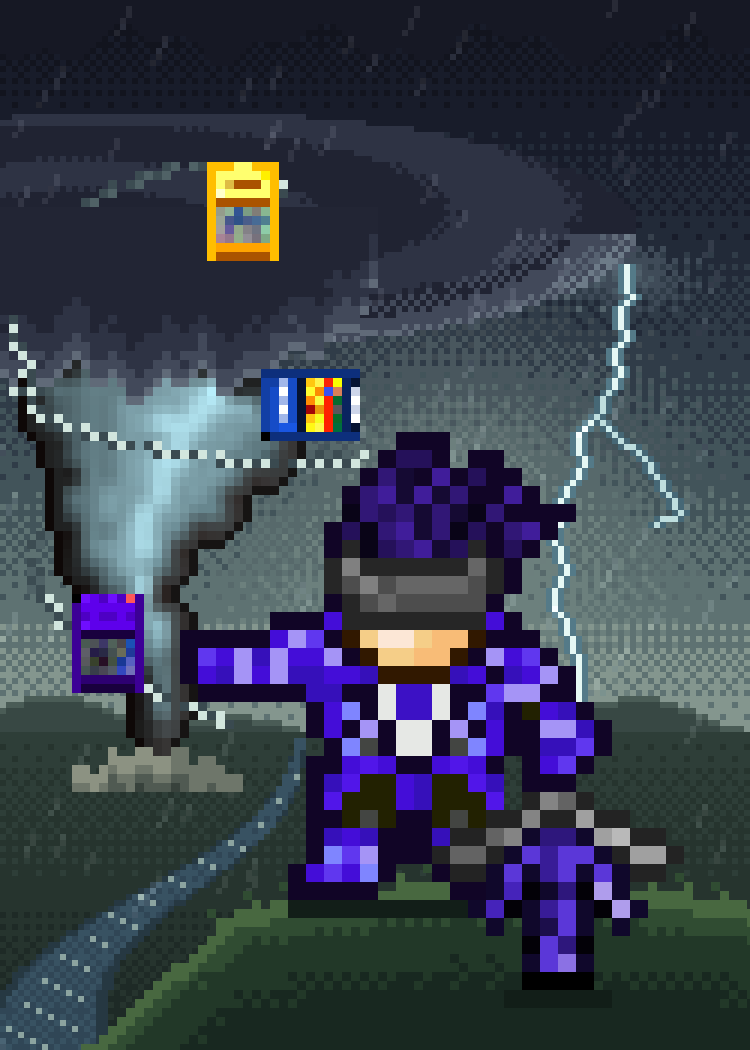
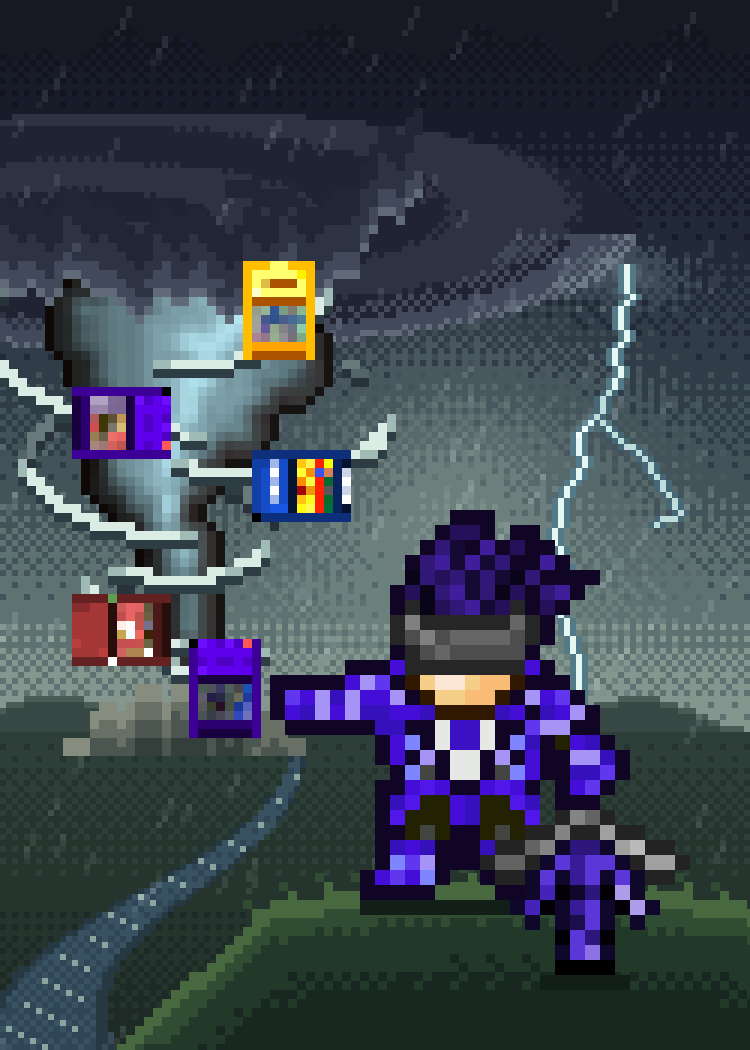
Runde 5: Zwischenstand der Helden-Sleeves (in Arbeit)
Claude-Session: https://claude.ai/code/session_01TEnvTzH2xD44R6Unjv7vDo

diff --git a/data/sleeve-proposals/runde5/generator/s04_stormdraw.py b/data/sleeve-proposals/runde5/generator/s04_stormdraw.py
@@ -12,16 +12,18 @@ Quellen:
   Motive.xcf       Ebene 584 „Ebene #696“ – Spielkarten vom Tisch aus „Card Game Player Inya“
                    (lila Heldenkarten, blaue, goldene und rote Karten).
 Selbst gezeichnet: Sturmhimmel mit heller Wolkenlücke, eingedrehte Mutterwolke, Wolkenkragen am Trichter,
-Regen, ferner Blitz, Ebene mit Fluss (wie im Kartenbild), Hügelkuppe, Windbahn (1 px, hell/dunkel),
-Staubwolke am Rüssel, Bodenschatten.
-Karten: nur drei (lila Heldenkarte = eigene Hand, blaue Karte = Gegner, goldene Karte oben = neu gezogen),
-nur um 90° gedreht, auf der Windbahn aufgereiht.
+Regen, ferner Blitz, Ebene mit Fluss (wie im Kartenbild), Hügelkuppe, gebogene Windstreifen (1 px hell
+mit 1 px dunkler Schattenlinie, spiralig um den Trichter, hinten vom Trichter verdeckt), Staub- und
+Trümmerwolke am Rüssel, Bodenschatten.
+Karten: fünf gleich große Karten (lila Heldenkarten, rote, blaue, goldene), ungedreht bzw. um 90° gedreht,
+im Wechsel vorn rechts/vorn links die Spirale hinauf gestaffelt – unten eben aus der Hand gerissen,
+oben in der Wolke verschwindend.
 
 Skalierung (Tiefenebenen):
   Hintergrund (Himmel, Wolken, Regen, Blitz, Ebene, Fluss)                  – 2×-Raster (125×175)
-  Mittelgrund (Tornado 32×50 → 96×150, Karten 8×11 → 24×33, Windbahn,
+  Mittelgrund (Tornado 32×50 → 96×150, Karten 8×11 → 24×33, Windstreifen,
                Wolkenkragen, Staub, Hügelkuppe)                            – 3×-Raster (84×117)
-  Vordergrund (Champion 28×31 → 168×186, Bodenschatten)                    – 6×-Raster (42×59)
+  Vordergrund (Champion 28×31 → 140×155, Bodenschatten)                    – 5×-Raster (50×70)
 """
 import math, random
 import numpy as np
@@ -196,11 +198,11 @@ for _ in range(150):
         if 0 <= xx < bw and 0 <= yy < bh:
             bg.a[yy, xx] = np.clip(bg.a[yy, xx].astype(int) + 18, 0, 255)
 
-# ================= Mittelgrund 3× (Tornado, Karten, Windbänder, Hügel) ===================
+# ================= Mittelgrund 3× (Tornado, Karten, Windstreifen, Hügel) =================
 K3 = 3
 mw, mh = grid(K3)                      # 84×117
 mid = rgba(mw, mh)
-TX, TY = 2, 37                        # Tornado (Rüsselspitze auf dem Horizont)
+TX, TY = 5, 28                         # Tornado: Scheitel in der Wolke (y 84), Rüssel in der Staubwolke
 th, tw = tornado.shape[:2]
 tm = tornado[..., 3] > 0
 rows = {}
@@ -208,6 +210,7 @@ for r in range(th):
     xs = np.where(tm[r])[0]
     rows[TY + r] = (TX + (xs.min() + xs.max() + 1) / 2, (xs.max() - xs.min() + 1) / 2)
 tip = (TX + 15, TY + th - 1)
+GROUND = 83                            # Aufsetzpunkt der Staubwolke (y 249–252, knapp vor dem Horizont)
 
 
 def funnel(y):
@@ -215,85 +218,113 @@ def funnel(y):
     return rows[y]
 
 
-def spiral(t):
-    """Windbahn: von der Hand des Helden um den Trichter herum hinauf in die Wolke."""
-    y = tip[1] - 6 - t * (th + 14)
+A0, TURNS = 0.75, 2.0
+Y_LO, Y_HI = 73, TY - 5
+
+
+def spiral(t, dr=0.0, da=0.0):
+    """Sog um den Trichter: unten eng, oben weit; sin(a) > 0 = vordere Hälfte."""
+    y = Y_LO + (Y_HI - Y_LO) * t
     c, hw = funnel(y)
-    a = 0.2 + t * math.pi * 2 * 2.1
-    r = hw + 3 + t * 7
-    return c + math.cos(a) * r, y + math.sin(a) * (2.5 + t * 7), math.sin(a)
+    a = A0 + da + t * math.pi * 2 * TURNS
+    r = hw + 4 + t * 6 + dr
+    return c + math.cos(a) * r, y + math.sin(a) * (5 + t * 9), math.sin(a)
 
 
-N = 1400
-path = [spiral(i / N) for i in range(N)]
-wind_f = [(210, 230, 222), (58, 74, 80)]
-wind_b = [(80, 98, 102), (60, 76, 82)]
+def arc(t0, a0, a1, dr=0.0):
+    """Punkte eines kurzen, gebogenen Windstreifens: Winkel a0→a1, steigt dabei spiralig an."""
+    pts = []
+    for i in range(160):
+        a = a0 + (a1 - a0) * i / 159
+        t = t0 + 0.4 * (a - a0) / (math.pi * 2 * TURNS)
+        y = Y_LO + (Y_HI - Y_LO) * t
+        c, hw = funnel(y)
+        r = hw + 4 + t * 6 + dr
+        p_ = (int(round(c + math.cos(a) * r)), int(round(y + math.sin(a) * (5 + t * 9))))
+        if not pts or pts[-1] != p_: pts.append(p_)
+    return pts
 
 
-def draw_wind(front):
-    seen = []
-    for x, y, s_ in path:
-        p = (int(round(x)), int(round(y)))
-        if (s_ >= 0) == front and (not seen or seen[-1] != p):
-            seen.append(p)
-    for j, (x, y) in enumerate(dict.fromkeys(seen)):
-        if j % 9 == 8: continue           # kleine Lücken: Böen
-        setp(mid, x, y, (wind_f if front else wind_b)[j % 2])
+def streak(pts, front=True):
+    """1-px-Streifen im 3×-Raster: helle Linie, darunter eine dunkle Schattenlinie (hell/dunkel),
+    Enden eine Stufe matter – liest sich als Böe, nicht als Punktkette."""
+    hi, mid_, lo = ((218, 236, 228), (160, 186, 182), (46, 60, 68)) if front else \
+                   ((104, 122, 124), (84, 100, 104), (40, 50, 58))
+    S_ = set(pts)
+    for j, (x, y) in enumerate(pts):
+        if (x, y + 1) not in S_: setp(mid, x, y + 1, lo)
+    for j, (x, y) in enumerate(pts):
+        setp(mid, x, y, mid_ if j < 2 or j >= len(pts) - 2 else hi)
 
 
-def card_at(t, key, rot=0, dark=0.0, dx=0, dy=0):
+# vordere Streifen: (Höhe t, Startwinkel, Endwinkel, Radius-Versatz) – abwechselnd rechts und links vorn
+FRONT = [(0.06, 0.35, 1.9, 0), (0.17, 1.5, 2.9, 1), (0.30, 0.25, 1.55, 0), (0.33, 0.9, 1.9, 3),
+         (0.45, 1.45, 2.85, 0), (0.58, 0.2, 1.45, 1), (0.62, 0.8, 1.7, 4), (0.74, 1.5, 2.8, 0),
+         (0.88, 0.25, 1.6, 2)]
+BACK = [(0.12, 3.6, 4.4, 0), (0.25, 5.2, 5.9, 0), (0.40, 3.4, 4.2, 1), (0.53, 5.1, 5.9, 0),
+        (0.69, 3.5, 4.3, 1), (0.82, 5.0, 5.8, 0)]
+
+
+def card_at(t, key, rot=0, dx=0, dy=0):
     c = CARDS[key]
     if rot: c = rot90(c, rot)
-    if dark: c = darken(c, dark)
     x, y, _ = spiral(t)
     put(mid, c, int(round(x)) - c.shape[1] // 2 + dx, int(round(y)) - c.shape[0] // 2 + dy)
 
 
-draw_wind(False)
+for t0, a0, a1, dr in BACK: streak(arc(t0, a0, a1, dr), False)   # hinten (vom Trichter verdeckt)
 put(mid, tornado, TX, TY)
-# Staubwolke am Fuß des Rüssels (flache, gewölbte Wolke, von links beleuchtet)
-dust = [(56, 66, 60), (80, 90, 82), (110, 118, 106), (140, 146, 130)]
-for x in range(tip[0] - 9, tip[0] + 10):
-    u = (x - tip[0]) / 9.5
-    h = (1 - u * u) * 3.2 + 0.8 * math.sin(x * 1.7)
-    top = tip[1] + 1 - h
-    for y in range(int(math.floor(top)), tip[1] + 2):
+
+# Staub- und Trümmerwolke, in der der Rüssel aufsetzt
+dust = [(52, 62, 58), (76, 86, 80), (104, 112, 102), (134, 140, 126)]
+for x in range(tip[0] - 13, tip[0] + 14):
+    u = (x - tip[0]) / 13.5
+    h = (1 - u * u) * 6.5 + 1.0 * math.sin(x * 1.3) + 0.6 * math.sin(x * 2.7)
+    top = GROUND - h
+    for y in range(int(math.floor(top)), GROUND + 1):
         d = y - top
-        c = dust[3] if d < 1 and u < .2 else (dust[2] if d < 1.6 + bayer(x, y) else (dust[1] if d < 3 + bayer(x, y) else dust[0]))
+        c = dust[3] if d < 1 and u < .3 else (dust[2] if d < 2 + bayer(x, y) * 1.5 else (dust[1] if d < 4.5 + bayer(x, y) * 1.5 else dust[0]))
         setp(mid, x, y, c)
-# Wolkenkragen: der Trichter wächst aus der Mutterwolke (Wolkenwülste über den oberen Zeilen)
+
+# Wolkenkragen: der Trichter wächst aus der Mutterwolke
 ccol = [(34, 37, 52), (46, 51, 68), (66, 73, 90), (96, 106, 120)]
-for x in range(-1, TX + 40):
+for x in range(-1, TX + 42):
     u = (x - (TX + 15)) / 20
     base = TY + 6 - 3 * abs(u) + 1.3 * math.sin(x * .55) + 1.0 * math.sin(x * 1.3 + 1)
     if x > TX + 30: base -= (x - TX - 30) * .7
-    for y in range(TY - 14, int(base) + 1):
+    for y in range(0, int(base) + 1):
         d = int(base) - y
+        if d > 9 and mid[y, x, 3] == 0: continue
         c = ccol[3] if d == 0 else (ccol[2] if d < 2 + bayer(x, y) * 1.2 else (ccol[1] if d < 5 + bayer(x, y) * 2 else ccol[0]))
         setp(mid, x, y, c)
-draw_wind(True)
-card_at(0.17, 'purple0', 0, dx=2)
-card_at(0.51, 'blue0', 1, dx=-2, dy=-6)
-card_at(0.99, 'gold', 0)
+
+for t0, a0, a1, dr in FRONT: streak(arc(t0, a0, a1, dr), True)   # vorn über dem Trichter
+# Karten im Sog, gleich groß, gestaffelt die Spirale hinauf (vorn rechts / vorn links im Wechsel)
+card_at(0.03, 'purple0', 0, dx=1)      # eben aus der Hand gerissen
+card_at(0.14, 'red', 0, dx=-1)
+card_at(0.50, 'blue0', 1)
+card_at(0.64, 'purple1', 3, dx=9)
+card_at(0.99, 'gold', 0, dy=2)
 
 # Hügelkuppe rechts unten (Standfläche des Helden)
 grass = [(24, 40, 32), (34, 56, 40), (48, 76, 50), (72, 104, 64)]
 def hill_top(x):
-    return 98.5 + ((x - 56) / 34) ** 2 * 4 if x >= 26 else 98.5 + ((26 - 56) / 34) ** 2 * 4 + (26 - x) * .9
+    return 98.5 + ((x - 56) / 34) ** 2 * 4 if x >= 30 else 98.5 + ((30 - 56) / 34) ** 2 * 4 + (30 - x) * .9
 for x in range(mw):
     top = hill_top(x)
     for y in range(int(top), mh):
         d = y - top
         cc = grass[3] if d < 1 else (grass[2] if d < 2.5 + bayer(x, y) * 1.5 else (grass[1] if d < 7 + bayer(x, y) * 4 else grass[0]))
         mid[y, x, :3] = cc; mid[y, x, 3] = 255
-for x in range(24, mw, 4):             # windgebeugte Halme
+for x in range(28, mw, 4):             # windgebeugte Halme
     top = int(hill_top(x))
     setp(mid, x, top - 1, grass[3]); setp(mid, x - 1, top - 2, grass[2])
 
-# ================= Vordergrund 6× (Champion) ============================================
-fw, fh = grid(6)                       # 42×59
+# ================= Vordergrund 5× (Champion) ============================================
+K5 = 5
+fw, fh = W // K5, H // K5              # 50×70
 fg = rgba(fw, fh)
-CXf, CYf = 10, 24                      # Füße auf Zeile CYf+25 (y 294–300)
+CXf, CYf = 18, 34                      # x 90–230; Füße auf Zeile CYf+25 (y 295–300)
 sh = (18, 30, 24)
 for x in range(CXf + 6, CXf + 24): setp(fg, x, CYf + 26, sh)
 for x in range(CXf + 18, CXf + 24): setp(fg, x, CYf + 31, sh)
@@ -302,6 +333,6 @@ put(fg, champ, CXf, CYf)
 cv = Canvas(W, H)
 blit(cv, bg, 2)
 blit(cv, mid, K3)
-blit(cv, fg, 6)
+blit(cv, fg, K5)
 p = save(cv, '04_stormdraw.png')
 print(p)

diff --git a/data/sleeve-proposals/runde5/generator/s06_dolls_in_the_dark.py b/data/sleeve-proposals/runde5/generator/s06_dolls_in_the_dark.py
@@ -1,9 +1,29 @@
 # -*- coding: utf-8 -*-
-"""06 – Alice, the Puppeteer Girl (Entwurf v7).
-Idee: Nachts in Alices Zimmer im Herrenhaus. Alice steht groß auf dem violetten Läufer, die Arme
-ausgebreitet, an ihren Fäden sitzen ihre zwei Puppen. Der Raum dahinter liegt im Dunkeln – nur ihr
-eigener violetter Magieschein; in der Finsternis glühen die roten Puppenaugen (im Schrank, im Spiegel ...).
+"""06 Dolls in the Dark – Held: Alice, the Puppeteer Girl (Base-Karte, NICHT „Transfer Student“).
+
+Idee (Porträt/Ruhemoment, Grusel): Nachts in Alices Zimmer im Herrenhaus. Alice steht groß und frontal auf
+dem violetten Läufer, die Arme ausgebreitet; an ihren Fäden sitzen ihre zwei Puppen. Das Zimmer dahinter liegt
+im Dunkeln, nur ihr eigener violetter Magieschein beleuchtet Säulen, Bett und ihr Porträt an der Wand. In der
+Finsternis glühen die roten Puppenaugen: die Geisterpuppe im Spiegel des Frisiertischs, eine Puppe, die im
+offenen Schrank lauert, die Puppe auf dem Schrank, die auf dem Bett und zwei am Fuß der Säulen. Rechts glimmt
+der Ofen. (Ihre Kreaturen = ihre Macht: Kartentext zählt die Kreaturen, Destruction + Summoning Magic.)
+
+Quellen (MotiveBritain.xcf, Kartenszene „Sichtbar #53“ = Ebene 5, Lage 218,288, 76×50):
+  Ebene 8 „Alice #6“  – Alice (dunkle Augen, Arme ausgebreitet) + ihre 2 Puppen + violette Fäden,
+                        Box x 236–275, y 303–330, pixelgleich mit der Kartenszene geprüft (0 Abweichungen);
+                        ohne den Kopf der Puppe darunter und ohne die rote Punktlinie über ihr. (Die Alice
+                        links auf derselben Ebene mit türkisen Augen gehört zu „Mr. Jiggles“ – nicht verwendet.)
+                      – außerdem: Geisterpuppe im Spiegel (alpha 76), liegende Puppe auf dem Schrank,
+                        Puppe auf dem Bett (ohne roten Faden), stehende + sitzende Puppe (verdunkelt im Schrank)
+  Ebene 60 „Ebene #173“ – Zimmer (Wände, Säulen, Frisiertisch, Schrank, Bett, Standuhr, Regal, Ofen, Teppich)
+  Ebene 59 „Alice #7“   – violetter Läufer (Mittelstück, Periode 9, nach vorn verlängert)
+  Ebene 56 „Ebene #224“ – Alice-Porträt im Bilderrahmen, Kristallkugel
+Skalierung: Zimmer mit allen Hintergrundpuppen und Licht 2× (Raster 125×175);
+            Alice + ihre zwei Puppen + Fäden + Schatten 5× (Raster 50×70). Keine anderen Pixelgrößen.
+Fäden: Originalpixel (1 px im 5×-Raster, dunkel/hell abwechselnd), außerhalb von Alice halbtransparent;
+       sie beginnen an Alices Händen und enden an den Köpfen der Puppen.
 """
+
 import math
 from common import *  # noqa
 import numpy as np
@@ -92,8 +112,10 @@ for sp in (ward, bed):
     dollm |= sp[RY0:RY0 + 175, RX0:RX0 + 125, 3] > 0
 for (px, py) in ((248, 311), (2 * AX - 248 - 8, 311)):
     dollm[py - RY0:py - RY0 + 12, px - RX0:px - RX0 + 8] |= stand[..., 3] > 0 if px == 248 else flip(stand)[..., 3] > 0
-ledge = np.zeros(bg.shape[:2], bool)
-pict = np.zeros(bg.shape[:2], bool); pict[257 - RY0:272 - RY0, 272 - RX0:289 - RX0] = True
+pict = np.zeros(bg.shape[:2], bool)                          # Bild (Rahmen + Alice-Porträt) leicht beleuchtet
+_b = bg[257 - RY0:272 - RY0, 272 - RX0:289 - RX0, :3].astype(int)
+pict[257 - RY0:272 - RY0, 272 - RX0:289 - RX0] = ((((_b[..., 0] - _b[..., 2] > 25) & (_b.min(-1) < 110)) | (_b[..., 2] - _b[..., 0] > 25))
+                                                  | (layer(D, 56)[257:272, 272:289, 3] > 0))
 out = rgb.astype(float)
 EYE = np.array([255, 36, 56])
 for y in range(175):
@@ -102,18 +124,14 @@ for y in range(175):
         t = max(0.0, 1 - d)
         f = 0.07 + 0.88 * t ** 1.25
         c = out[y, x]
-        if emis[y, x] and not ledge[y, x]:
+        if emis[y, x]:                                            # glühende Augen
             c = c * 0.35 + EYE * 0.65 if c[0] > 200 else c * 1.1
-        elif emis[y, x]:
-            c = EYE * 0.8
         elif ghost[y, x]:
             c = c * 0.85 + np.array([0, 10, 20])
-        elif ledge[y, x]:
-            c = c * 0.16 + np.array([4, 2, 12])
         elif dollm[y, x]:
             c = c * max(f, 0.42) + np.array([4, 4, 16])
         elif pict[y, x]:
-            c = c * max(f, 0.4)
+            c = c * max(f, 0.5)
         else:
             g = math.floor((t ** 1.5) * 4 + bay(x, y)) / 4          # violetter Schein in Stufen, gedithert
             c = c * f + GLOW * g * 0.55 + (1 - f) * np.array([4, 1, 12])
@@ -131,7 +149,8 @@ cv = Canvas(W, H)
 cv.paste(up(bgl, 2), 0, 0)
 
 # ---------------------------------------------------------------- Alice mit ihren Puppen (5×)
-grp = l8[303:331, 236:276].copy()                  # Alice #6, Base-Karte (Sichtbar #53, Lage 218,288)
+grp = sprite('h06_alice_group', D, [8], box=(236, 303, 276, 331)).copy()   # Alice #6 (Base-Karte)
+assert grp.shape[:2] == (28, 40)
 grp[24:, 249 - 236:265 - 236] = 0                  # Kopf der Puppe darunter (gehört nicht dazu)
 grp = part_at(grp, 20, 10, dil=0)
 gh, gw = grp.shape[:2]

diff --git a/data/sleeve-proposals/runde5/notes.md b/data/sleeve-proposals/runde5/notes.md
@@ -1,4 +1,5 @@
 05 | Kitten Escort | Cute Annoyance Mini | Mini schwebt groß und grinsend vor einem großen, weichen Herz in ihrem Kartenlila über einem Wolkenmeer im Abendhimmel; ihre zwei geflügelten Cute Cats (Katzen der Base-Karte, Summoning Magic) eskortieren sie diagonal (links oben, rechts unten), rosa Herzchen (Charme) in den Gegenecken | Himmel/Sterne 1×; großes Herz, Herzchen, Wolkenmeer 2×; Mini + Cute Cats + Vordergrundwolken 4× | MotiveMoe 497 „Mini #2“ + 498 „Mini“ (Base, = Sichtbar #124 Lage 100,259, 0 px Abweichung), 494 „Mini #5“ (Flügelkatzen der Mini-Karte), Herzchen aus 499 „Mini #1“ | Rahmen: twist/silver/amethyst/rose
 01 | Heartguard | Cool Rescuer Monia | Monia (Base) schwebt mit feuernden Jet-Düsen vor dem Herz ihres Kartenbilds, das zum durchscheinenden Schutzschild wird; darin bergen sich eine Cute Bunny (Fledermaus-Hase) und eine Cute Cat, eine MOE-Bomb-Herzbombe verpufft am Schildrand, eine zweite fällt noch heran; das Herz ruht auf einer Wolkenbank (Kartentext: Effekte auf Kreaturen negieren) | Monia 5×; Hintergrund-Ebene (Himmel, Wolken, Herzschild, Kreaturen, Bomben, Effekte) 2× | MotiveMoe 511+510 (Monia Base, pixelgleich mit Szene 68 „Sichtbar #157“), 512 (Herz-Palette, Deko-Herzen), 429 Cute Bunny #1, 492 Cute Cat, 376 MOE Bomb (M-Emblem übermalt), 553 Hintergrund (Himmel); Schild/Explosion/Wolken selbst gezeichnet | Rahmen: ornate/silver/rose/sapphire
-04 | Stormdraw | Champion, the Stormbringer | Champion steht groß auf einer Hügelkuppe im Gewitter und greift mit ausgestrecktem Arm in den Trichter seines Tornados (wie im Kartenbild links neben ihm); die Windbahn reißt Karten beider Spieler (lila Heldenkarte, blaue Karte, goldene Karte) spiralförmig hinauf in die eingedrehte Mutterwolke, rechts schlägt ein ferner Blitz ein, links windet sich der Fluss aus der Kartenszene | Himmel/Wolken/Regen/Blitz/Ebene/Fluss 2×, Tornado/Karten/Windbahn/Staub/Hügel 3×, Champion 6× (168×186) | MotiveJapan 121 „Champion“ + 119 + 120 (Schwert „The Stormblade“, geprüft gegen Sichtbar #33/#38), MotiveJapan 112 (Tornado der Karte, falsch benannt „Gate to the Armory“), Motive 584 (Spielkarten aus „Card Game Player Inya“) | Rahmen: twist/silver/amethyst/cyan
+04 | Stormdraw | Champion, the Stormbringer | Champion steht auf einer Hügelkuppe im Gewitter und zeigt mit ausgestrecktem Arm auf den Rüssel seines Tornados (wie im Kartenbild links neben ihm); gebogene Windstreifen laufen spiralig um den Trichter und reißen fünf Karten beider Spieler (lila Heldenkarten, rot, blau, gold) gestaffelt hinauf in die eingedrehte Mutterwolke – sein Kartentext „beide werfen ab und ziehen neu“; rechts ein ferner Blitz, links der Fluss aus der Kartenszene | Himmel/Wolken/Regen/Blitz/Ebene/Fluss 2×, Tornado (96×150)/Karten (24×33)/Windstreifen/Staub/Hügel 3×, Champion 5× (140×155) | MotiveJapan 121 „Champion“ + 119 + 120 (Schwert „The Stormblade“, geprüft gegen Sichtbar #33/#38), MotiveJapan 112 (Tornado der Karte, falsch benannt „Gate to the Armory“), Motive 584 (Spielkarten aus „Card Game Player Inya“) | Rahmen: twist/silver/amethyst/cyan
 03 | Vials on the Vine | Kyli, the Deceptive Sapling | Nachts steht Kyli (Base) groß im kerzenbeleuchteten Opferring auf der Steinlichtung ihrer Kartenszene, ihr Zweig-Geweih zeichnet sich vor einem fahlen Vollmond ab; aus den drei Geweihspitzen wachsen Ranken, die drei zurückgeholte Tränke (grün, türkis, rot) wie Früchte in die Luft halten (Occultism-Opfer → gelöschte Potions werden Biomancy-Tokens); zwei gespiegelte Augenbäume mit rotem Auge und Zahnmaul aus ihrem Kartenbild rahmen die Szene | Himmel/Sterne/Mond 2×; Steinboden, Ringschein, Augenbäume 3×; Kyli (120×165), Tränke, Ranken, Ring, Kerzen 5× | MotiveGrailWar 149 „Kyli“ (einzige Kyli-Ebene, = Sichtbar #7 Lage 237,48, 0 px Abweichung), 150 „Ebene #431“ (Augenbaum derselben Szene; nicht 160 „Occultism“, weicht ab), 161 (Steinboden-Kachel), 159 (Kerze aus dem Ritualkreis); MotiveSteamDwarfs 134 „Biomancy“ (Korkflaschen); Himmel, Mond, Ring ohne Pentagramm, Ranken selbst gezeichnet | Rahmen: bone/ebony/emerald/ruby
+06 | Dolls in the Dark | Alice, the Puppeteer Girl | Nachts in Alices dunklem Zimmer im Herrenhaus: Alice steht groß und frontal auf dem violetten Läufer, Arme ausgebreitet, an ihren Fäden (Originalpixel, 1 px dunkel/hell, halbtransparent, von den Händen zu den Puppenköpfen) sitzen ihre zwei Puppen; nur ihr violetter Magieschein erhellt Säulen, Bett und ihr eigenes Porträt an der Wand, ringsum glühen in der Finsternis rote Puppenaugen (Geisterpuppe im Spiegel, lauernde Puppe im offenen Schrank, Puppen auf Schrank und Bett, zwei an den Säulen), rechts glimmt der Ofen | Zimmer + Hintergrundpuppen + Licht 2× (125×175), Alice + 2 Puppen + Fäden + Schatten 5× (50×70) | MotiveBritain: Ebene 8 „Alice #6“ (Alice-Gruppe x236–275/y303–330, pixelgleich mit Szene 5 „Sichtbar #53“, Lage 218,288; Geist, Hintergrundpuppen), 60 (Zimmer), 59 (Läufer, verlängert), 56 (Alice-Porträt, Kristallkugel) | Rahmen: ornate/gothic/amethyst/ruby
